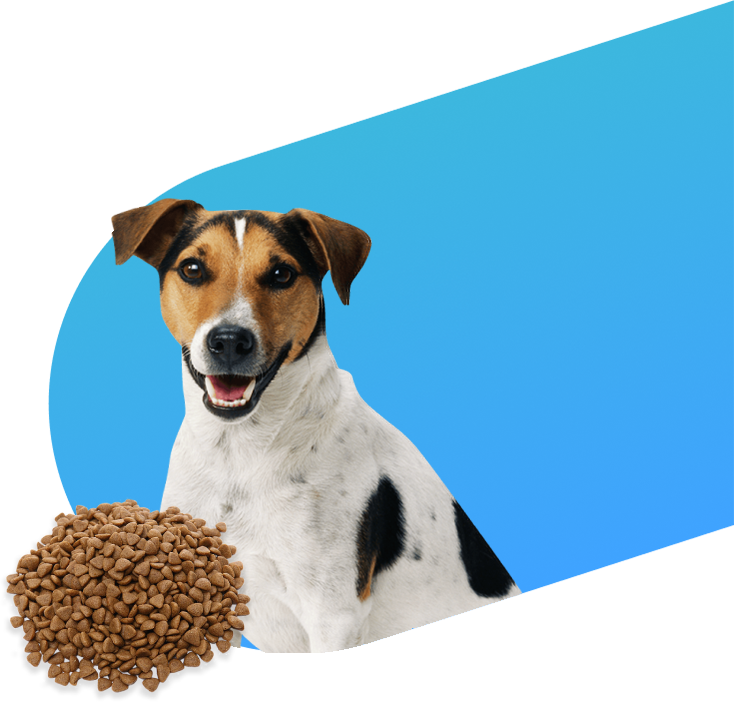
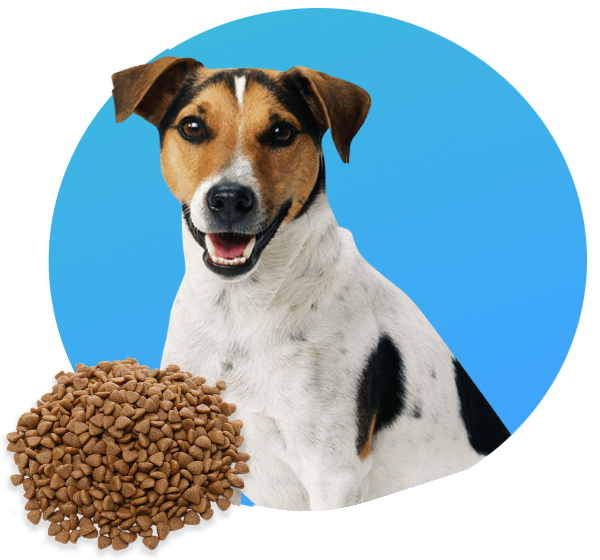
correção de codigos e adicionado responsividade

diff --git a/style.css b/style.css
@@ -3,47 +3,48 @@
 html, body {
     margin: 0px;
     padding: 0px;
-    border:0px;
+    border: 0px;
+}
+
+a {
+    text-decoration: none;
 }
 
 header {
     display: flex;
     flex-direction: row;
-    gap: 20px;
     font-family: rubik;
-    padding: 20px;
+    padding-left: 50px;
+    padding-top: 20px;
     gap: 20px;
-    color: #3C184E;
+    color: #3C184E;}
 
-
-}
-
-.logo {
-    width: 24px;
-    min-height: 24px;
-    min-height: 24px;
-    max-width: 24px;    
+header .logo {
+    width: 33px;   
+    height: 33px;
+    align-self: center;
+    padding-left: 3px;
 }
 
 main {
     display: flex;
-    flex-direction: columns;
-    padding-left: 20px;
-    padding-right: 0px;
+    flex-direction: row;
+    align-items: center;
+    justify-content: space-around;
     color: #3C184E;
     flex-wrap: wrap;
-    
-
 }
 
-
-
-.titulo-imagem {
+main .titulo-imagem {
     margin-top:0px;
 }
 
+main .conteudo-esquerda {
+    padding: 50px;    
+}
 
-.titulo {
+
+main .conteudo-esquerda .titulo {
     font-family: Merriweather, serif;
     color: #3C184E;
     font-weight: 900 bold;
@@ -53,7 +54,7 @@ main {
 }
 
 
-.chamada{
+main .chamada{
     font-family: rubik;
     color: #3C184E;
     font-weight: 400;
@@ -61,47 +62,63 @@ main {
     
 }
 
-.botao1{
+main .btn{
+    display: flex;
+    flex-direction: row;
+    align-items: center;
+    justify-content: center;
+    gap:10px;
     font-family: rubik;
     color: #ffffff;
     background-color: #713FFF;
-    width: 160px;
+    width: 230px;
     height: 45px;
     border: none;
     border-radius: 40px;
     font-weight: 400;
-    font-size: 16px;
-    
+    font-size: 16px;    
 }
 
-.botao1:hover {
+
+
+main .btn:hover {
     background-color: #a98aff;}
 
-.botao2{
-        font-family: rubik;
-        color: #000000;
-        background-color: #ffffff;
-        width: 180px;
-        height: 50px;
-        margin: 20px;
-        border: none;
-        border-radius: 40px;
-        font-weight: 400;
-        font-size: 16px;
+
+aside .image{
+    width: 500px;
+    padding: 30px;
+    justify-content: center;
+}
+
+/*=========MEDIA QUERIES (DISPOSITIVOS PEQUENOS) ==========*/
+@media screen and (max-width:600px){
+    header {
+        justify-content: center;
+        padding: 0;
+        padding-top: 15px;
+
+    }
+    
+    main .conteudo-esquerda .titulo {
+        margin-top: 0px;
+        font-size: 35px;
+}
+
+    main .btn{
         
+        margin-left: auto;
+        margin-right: auto;
 }
 
-.botao2:hover {
-    background-color: rgba(235, 214, 255, 0.53);}
+    main .conteudo-esquerda{
+        padding-bottom: 0px;
+    }
 
-.imagem{ /*transformou todas imagens em um item*/
-    display: block;
-    max-width: 700px;
-    margin: 0px;
-    padding: -20px;
-    border-width: 0px;
-    float: right;
-    
-    
+    aside .image{
+        width: 300px;
+        margin-left: auto;
+        margin-right: auto;
+        padding-left: 50px;
+    }
 }
-

diff --git a/index.html b/index.html
@@ -6,39 +6,33 @@
     <meta name="viewport" content="width=device-width, initial-scale=1.0">
     <title>Seu PetShop</title>
     <link rel="stylesheet" type="text/css" href="style.css"> 
+    <link href="https://fonts.googleapis.com/icon?family=Material+Icons+Sharp" rel="stylesheet">
 </head>
 <body>
-
-<!--Inicio topo logo marca-->    
-    <header>
+      <header>
         <img class="logo" src="/Imagens/logo.png">
-        <h1>HelpDog</h1>
+        <h1>PetShop</h1>
     </header>
 
-
-<!--Inicio conteudo-->
-    <!--texto a esquerda-->
     <main>
         <section class="conteudo-esquerda">
            <div>
-                <h2 class="titulo">Ajude quem precisa de ajuda</h2>
+                <h2 class="titulo">Tenha o melhor tratamento para o seu parceiro</h2>
                 <img class="titulo-imagem" src="/Imagens/Vector.png">
             </div>
 
             <div>              
-                <p class="chamada">Com apenas 1 real você pode ajudar a alimentar cães de rua.</p>
+                <p class="chamada">Tenha o melhor tratamento para o seu parceiro</p>
                  <div class=botoes>
-                <a href=""> <button class="botao1" >Contribuir</button></a>
-                <a href=""><button class="botao2" >Entre em contato</button></a></div>
+                <a href="https://wa.me/5561995377732">
+                 <button class="btn">
+                     <span class="material-icons-sharp">whatsapp</span>Entre em contato</button></a>
             </div>
         </section>
 
-    <!--imagem-->  
-
-        <section >
-            <img class="imagem" src="/Imagens/cao.png">
-                  
-        </section>
+        <aside>
+            <img class="image" src="/Imagens/cao.png">            
+        </aside>
         
     </main>
 
